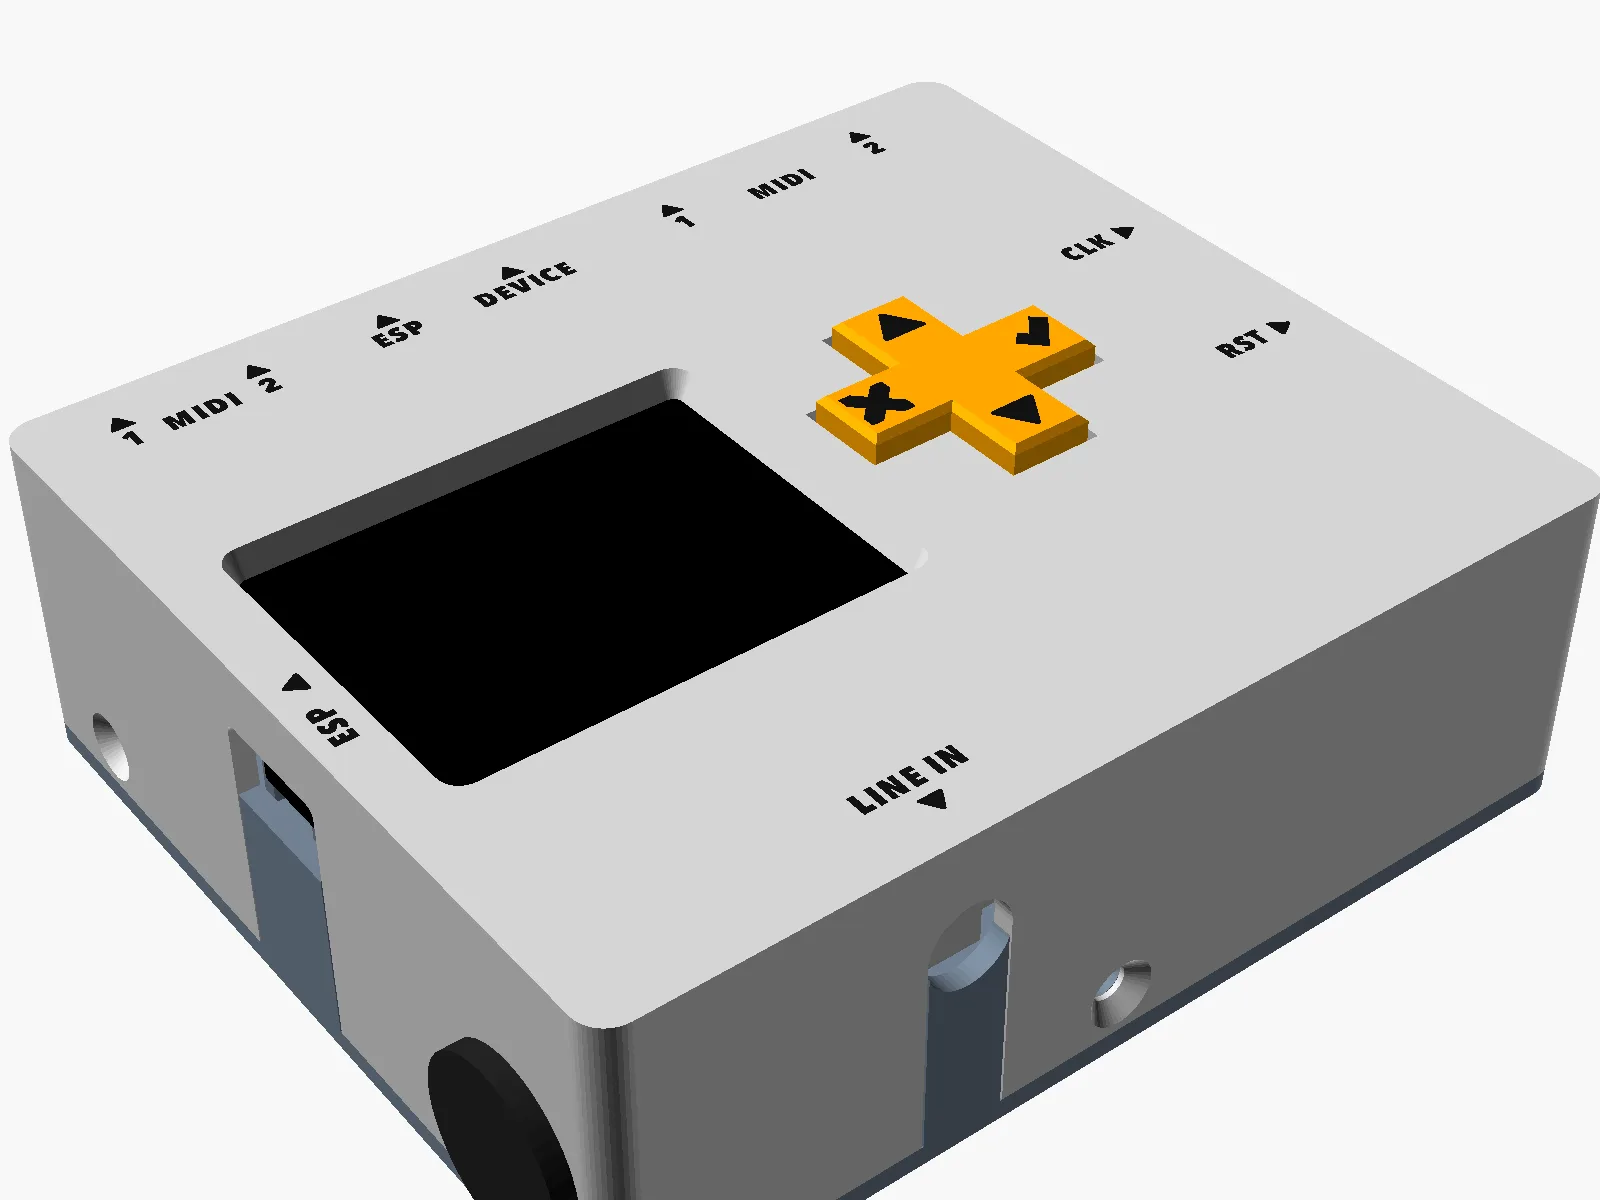
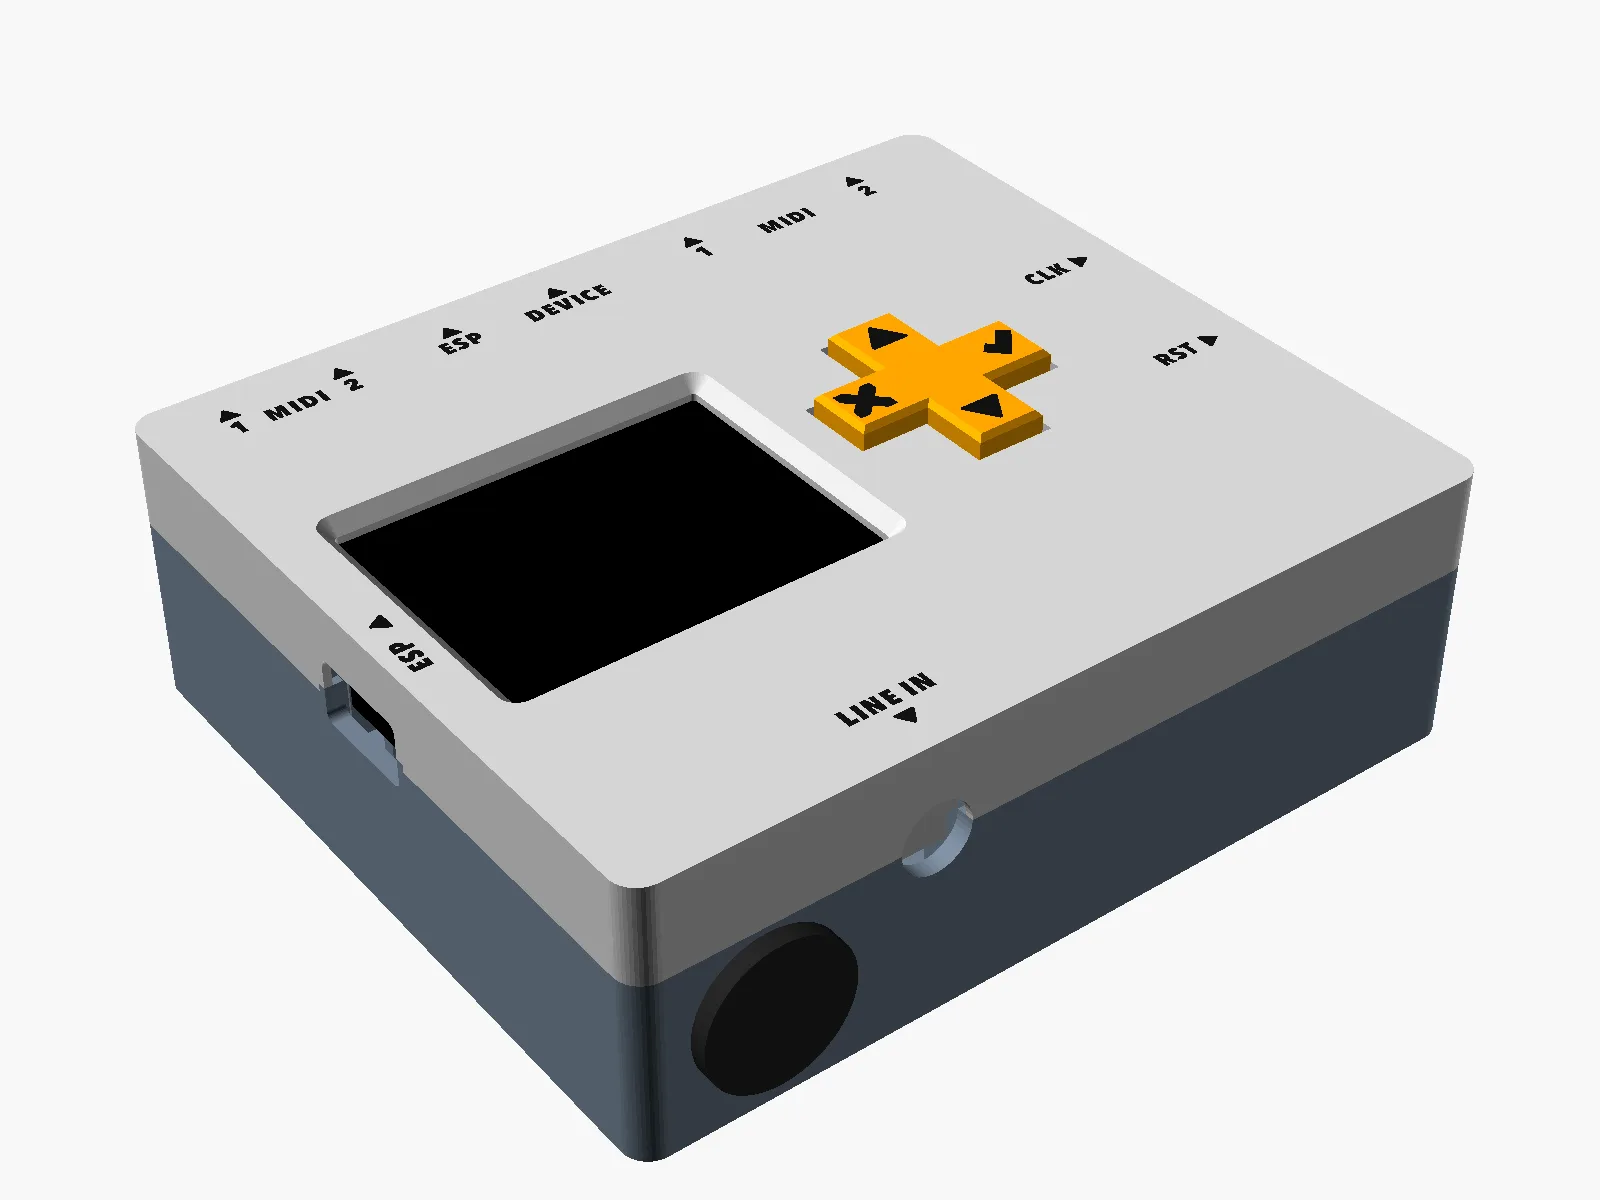
fix(site): the Build page's box pictures are the current box (box2.scad: top and bottom parts), the Install step has no device choice
Claude-Session: https://claude.ai/code/session_011PJXapp6p7n6xjgRA3o6fF

diff --git a/page/build.html b/page/build.html
@@ -483,7 +483,7 @@ th { color: var(--dim); font-weight: 600; font-size: 13px; }
     <p>Three parts: the <b>shell</b> (the face and the four walls), the flat <b>lid</b> underneath, and the <b>D-pad cap</b>. The face's labels and the cap's symbols are inlaid in a second colour (a multi-material printer).</p>
     <div class="pics">
       <img src="img/mini3/box-assembly.webp" alt="The closed case, rendered, seen from the front left: the screen window, the D-pad cap, the sockets in the walls" width="1600" height="1200" loading="lazy">
-      <img src="img/mini3/box-exploded.webp" alt="The case taken apart, rendered: the shell with the cap above it, our board, the lid with its rails and the cell below" width="1600" height="1200" loading="lazy">
+      <img src="img/mini3/box-exploded.webp" alt="The case taken apart, rendered: the top part with the cap above it, our board, the bottom part with the strips, the cell and the power switch" width="1600" height="1200" loading="lazy">
     </div>
     <h3>Bambu Studio projects (ready to slice)</h3>
     <ul>
@@ -520,7 +520,7 @@ th { color: var(--dim); font-weight: 600; font-size: 13px; }
         <div class="msg PHOTO-TODO">Photo to come: the board screwed into the shell, seen from below</div></li>
       <li><b>The power switch</b> snaps into the round hole in the left wall.</li>
       <li><b>The cell</b> lies on the lid in the corner under the right part, pushed against the L-shaped wall, with ~2 mm of rubber or foam on its four held sides. The lead: both wires leave the cell's top end, run left in the channel between the DIN sockets and the L's top arm, and down the gap between the strips and the L's left arm; the black goes on under the LCD-2 to its MX1.25, the red to the switch and up along the left wall to the MX1.25. Plug it into the LCD-2 (polarity checked).
-        <img src="img/mini3/box-inside.webp" alt="The lid with the parts under the board, rendered: the strip rails, the cell in its corner behind the L, the screw tabs, the hook and the power switch" width="1600" height="1200" loading="lazy">
+        <img src="img/mini3/box-inside.webp" alt="The bottom part with the parts under the board, rendered: the strips in their rails, the cell in its corner behind its own wall, the screw tubes" width="1600" height="1200" loading="lazy">
         <img src="img/mini3/floor-map.webp" alt="The case floor from above, drawn: the parts under the board, the strips, the cell with its rubber gap, the L, the screw tabs, the hook, the power switch and the cell's lead route with its lengths" width="844" height="986" loading="lazy">
         <div class="msg PHOTO-TODO">Photo to come: the cell in its corner and the lead routed to the switch and the LCD-2</div></li>
       <li><b>Close it.</b> Hook the lid's right side in first (tilted), swing the left side up, then the two M3 x 6 countersunk screws sideways through the walls (one in the bottom wall, one in the left wall).
@@ -530,7 +530,7 @@ th { color: var(--dim); font-weight: 600; font-size: 13px; }
 
   <section id="firmware">
     <h2>The firmware</h2>
-    <p>On the <a href="install.html">Install</a> page, choose <b>jank mini 3</b> and flash from the browser. Then run and watch it on the <a href="device.html">Device</a> page.</p>
+    <p>On the <a href="install.html">Install</a> page, flash from the browser: one firmware for both devices, it finds out at the start which one it runs on. Then run and watch it on the <a href="device.html">Device</a> page.</p>
     <p>USB: the LCD-2's own USB-C (left wall, labelled ESP) is for a computer or a charger. For gear with a USB port (host mode), a short USB-C cable outside the box joins the LCD-2's USB-C to J1 (top wall, ESP), and the gear goes into J4 (DEVICE). J4 gives that gear no power: bus-powered gear needs its own power or a powered hub.</p>
   </section>
 

diff --git a/page/src/build.html b/page/src/build.html
@@ -177,7 +177,7 @@ th { color: var(--dim); font-weight: 600; font-size: 13px; }
     <p>Three parts: the <b>shell</b> (the face and the four walls), the flat <b>lid</b> underneath, and the <b>D-pad cap</b>. The face's labels and the cap's symbols are inlaid in a second colour (a multi-material printer).</p>
     <div class="pics">
       <img src="img/mini3/box-assembly.webp" alt="The closed case, rendered, seen from the front left: the screen window, the D-pad cap, the sockets in the walls" width="1600" height="1200" loading="lazy">
-      <img src="img/mini3/box-exploded.webp" alt="The case taken apart, rendered: the shell with the cap above it, our board, the lid with its rails and the cell below" width="1600" height="1200" loading="lazy">
+      <img src="img/mini3/box-exploded.webp" alt="The case taken apart, rendered: the top part with the cap above it, our board, the bottom part with the strips, the cell and the power switch" width="1600" height="1200" loading="lazy">
     </div>
     <h3>Bambu Studio projects (ready to slice)</h3>
     <ul>
@@ -214,7 +214,7 @@ th { color: var(--dim); font-weight: 600; font-size: 13px; }
         <div class="msg PHOTO-TODO">Photo to come: the board screwed into the shell, seen from below</div></li>
       <li><b>The power switch</b> snaps into the round hole in the left wall.</li>
       <li><b>The cell</b> lies on the lid in the corner under the right part, pushed against the L-shaped wall, with ~2 mm of rubber or foam on its four held sides. The lead: both wires leave the cell's top end, run left in the channel between the DIN sockets and the L's top arm, and down the gap between the strips and the L's left arm; the black goes on under the LCD-2 to its MX1.25, the red to the switch and up along the left wall to the MX1.25. Plug it into the LCD-2 (polarity checked).
-        <img src="img/mini3/box-inside.webp" alt="The lid with the parts under the board, rendered: the strip rails, the cell in its corner behind the L, the screw tabs, the hook and the power switch" width="1600" height="1200" loading="lazy">
+        <img src="img/mini3/box-inside.webp" alt="The bottom part with the parts under the board, rendered: the strips in their rails, the cell in its corner behind its own wall, the screw tubes" width="1600" height="1200" loading="lazy">
         <img src="img/mini3/floor-map.webp" alt="The case floor from above, drawn: the parts under the board, the strips, the cell with its rubber gap, the L, the screw tabs, the hook, the power switch and the cell's lead route with its lengths" width="844" height="986" loading="lazy">
         <div class="msg PHOTO-TODO">Photo to come: the cell in its corner and the lead routed to the switch and the LCD-2</div></li>
       <li><b>Close it.</b> Hook the lid's right side in first (tilted), swing the left side up, then the two M3 x 6 countersunk screws sideways through the walls (one in the bottom wall, one in the left wall).
@@ -224,7 +224,7 @@ th { color: var(--dim); font-weight: 600; font-size: 13px; }
 
   <section id="firmware">
     <h2>The firmware</h2>
-    <p>On the <a href="install.html">Install</a> page, choose <b>jank mini 3</b> and flash from the browser. Then run and watch it on the <a href="device.html">Device</a> page.</p>
+    <p>On the <a href="install.html">Install</a> page, flash from the browser: one firmware for both devices, it finds out at the start which one it runs on. Then run and watch it on the <a href="device.html">Device</a> page.</p>
     <p>USB: the LCD-2's own USB-C (left wall, labelled ESP) is for a computer or a charger. For gear with a USB port (host mode), a short USB-C cable outside the box joins the LCD-2's USB-C to J1 (top wall, ESP), and the gear goes into J4 (DEVICE). J4 gives that gear no power: bus-powered gear needs its own power or a powered hub.</p>
   </section>
 
